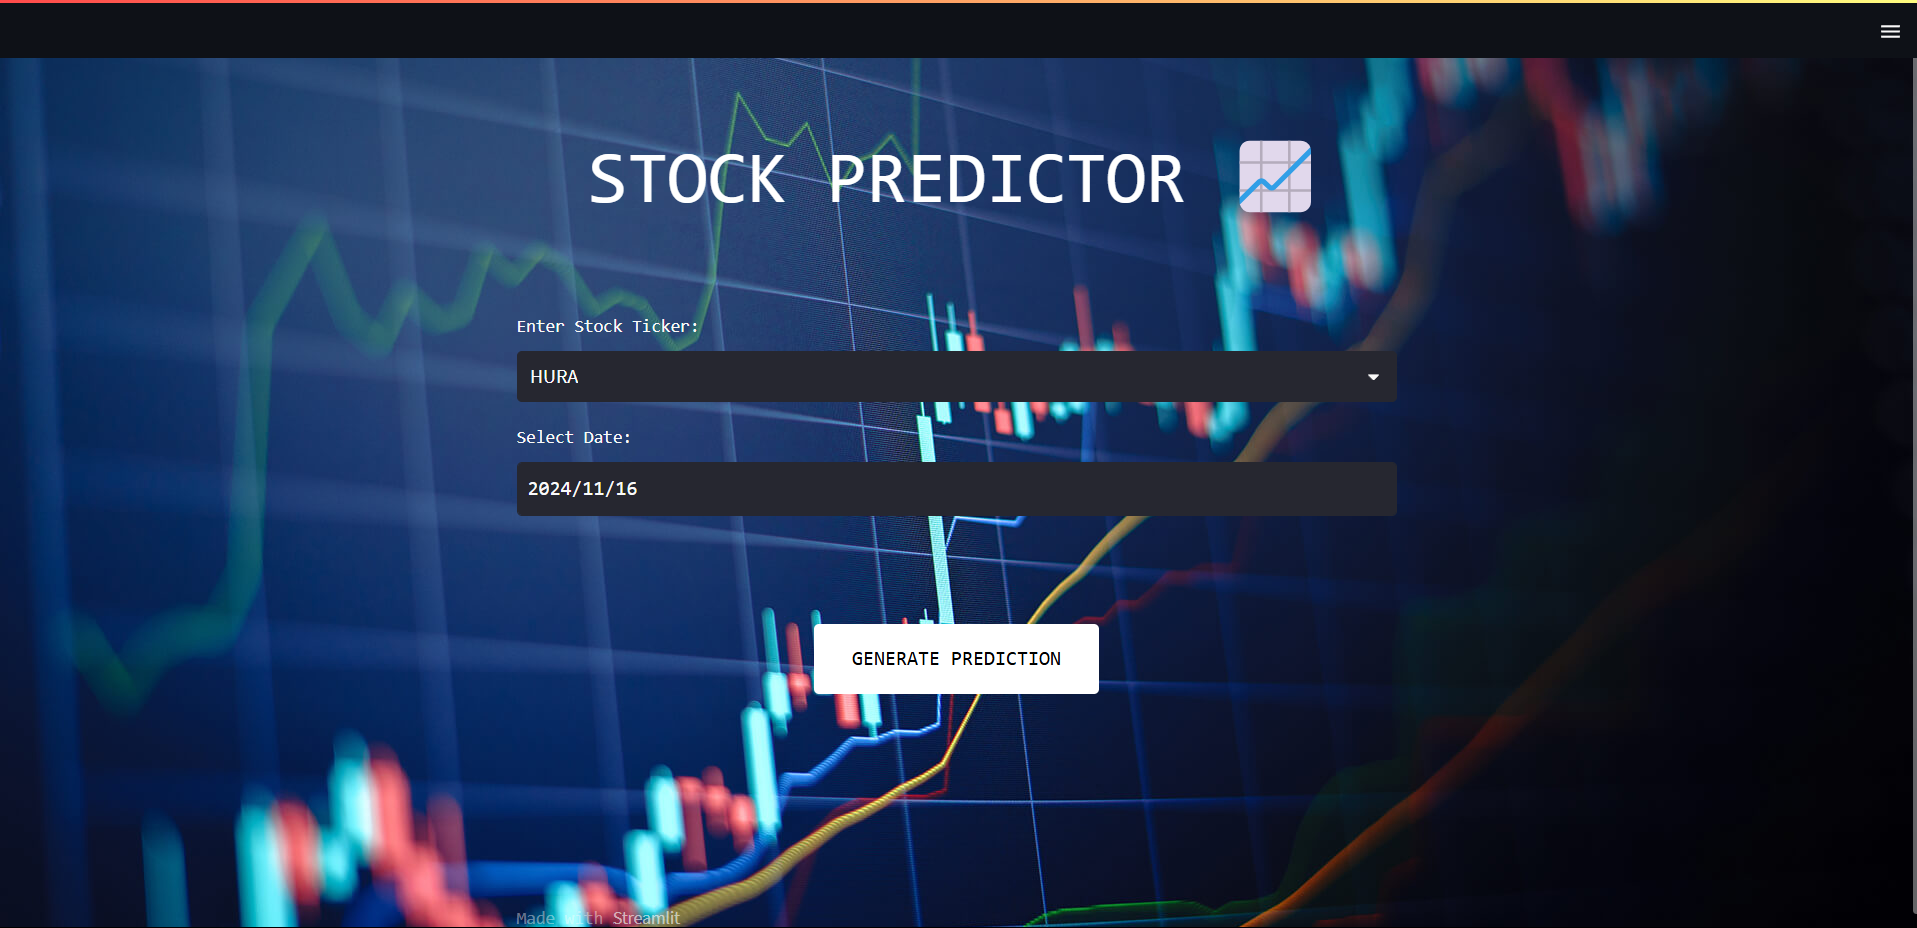
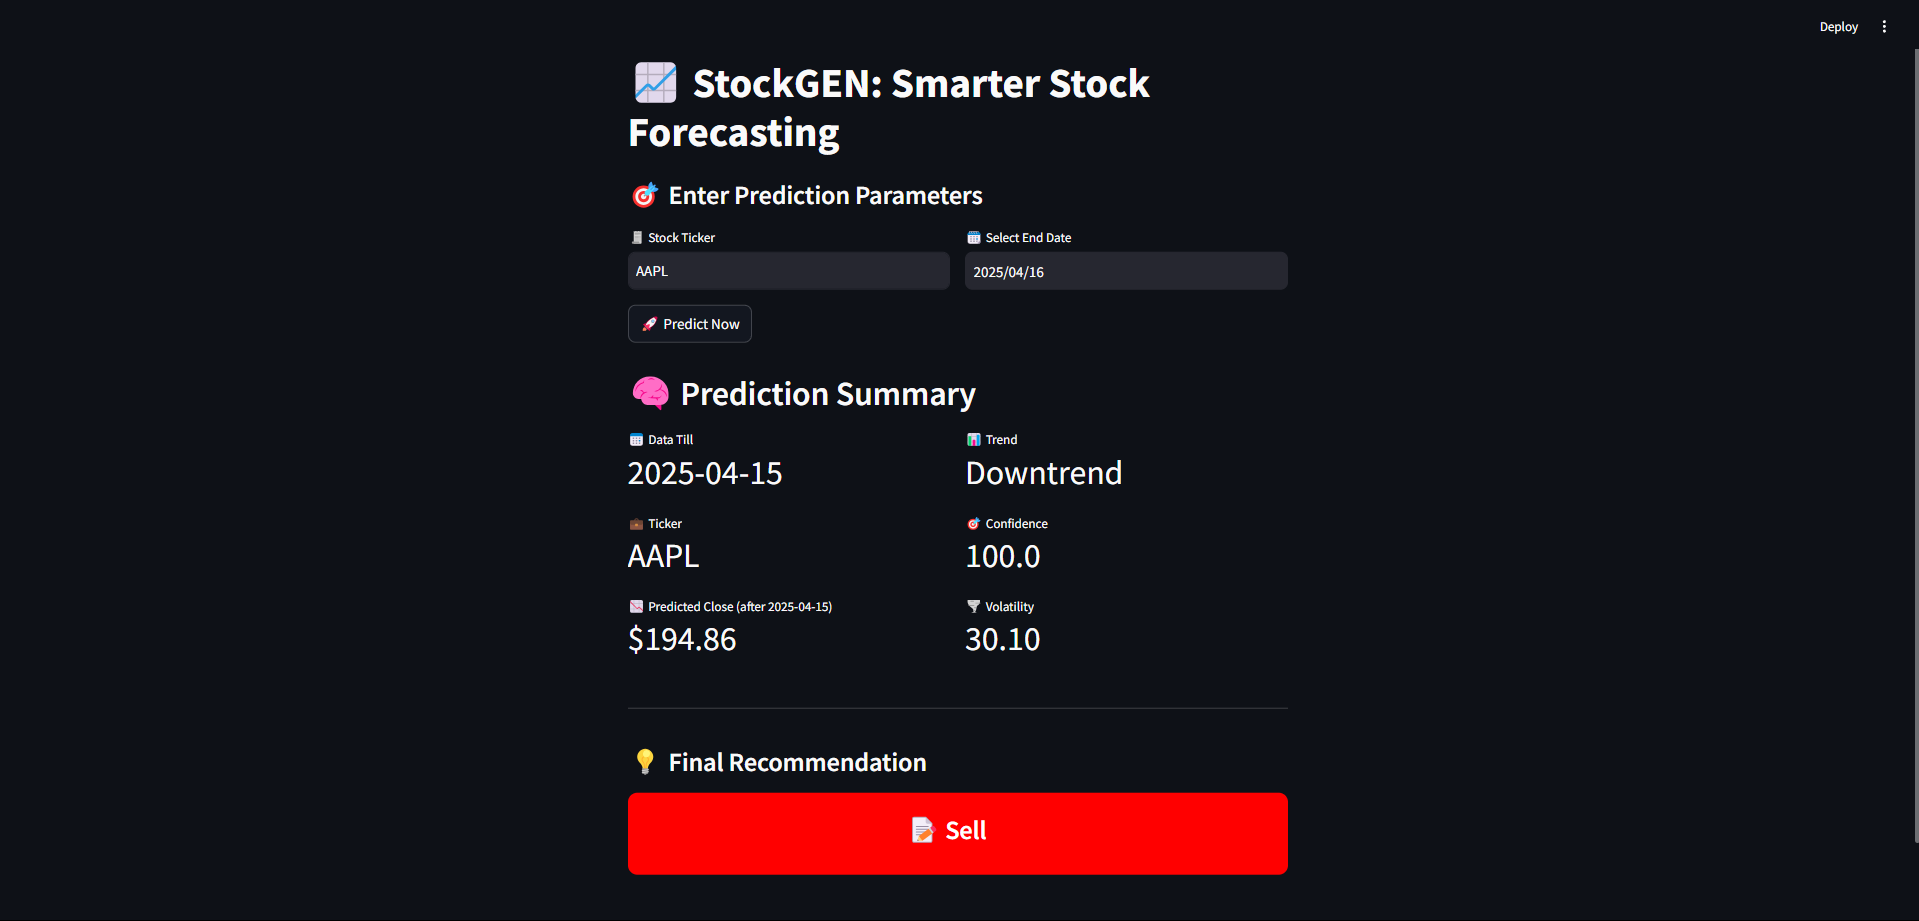
New project- StockGEN

diff --git a/data/index.ts b/data/index.ts
@@ -72,11 +72,11 @@ export const gridItems = [
 export const projects = [
   {
     id: 1,
-    title: "Stock Analyser + Predictor",
-    des: "Developed a stock prediction model using news data from Alpaca API and historical data from Yfinance. Achieved 89.06% accuracy with a Feedforward Neural Network, deployed in a Streamlit app for real-time stock price forecasts. Project results are documented in an upcoming research paper.",
+    title: "StockGEN",
+    des: "Developed a transformer based stock price/trend prediction model and Confidence + Recommendation using T5-flan.",
     img: "/stock.png",
-    iconLists: ["https://upload.wikimedia.org/wikipedia/commons/2/20/Tensorflow-svgrepo-com.svg", "https://upload.wikimedia.org/wikipedia/commons/2/22/Pandas_mark.svg", "https://upload.wikimedia.org/wikipedia/commons/6/67/Numpy-svgrepo-com.svg", "https://s3.dualstack.us-east-2.amazonaws.com/pythondotorg-assets/media/files/python-logo-only.svg", "/stream.svg"],
-    link: "https://github.com/GSL006/Stock-Predictor",
+    iconLists: ["https://upload.wikimedia.org/wikipedia/commons/9/99/Pytorch-svgrepo-com.svg", "/hf-logo.svg", "/flask.svg", "https://s3.dualstack.us-east-2.amazonaws.com/pythondotorg-assets/media/files/python-logo-only.svg", "/stream.svg"],
+    link: "https://github.com/GSL006/Stock-Predictor-v2",
   },
   {
     id: 2,
@@ -107,53 +107,52 @@ export const projects = [
 export const Skills = [
   {
     name: "Python",
-    quote:
-      "Known for its versatility and ease of use, Python is ideal for data analysis, machine learning, web development, automation, and scripting. Its extensive libraries, like NumPy, Pandas, and TensorFlow, enhance its capabilities in various fields.",
+    quote:"",
     img: "https://s3.dualstack.us-east-2.amazonaws.com/pythondotorg-assets/media/files/python-logo-only.svg",
   },
   {
     name: "Java",
-    quote: "A robust, object-oriented language used extensively in enterprise environments, Android app development, and backend services. Java's strong memory management, portability, and scalability make it suitable for large-scale applications.",
+    quote:"",
     img: "/java-icon.svg"
   },
   {
     name: "C/C++",
-    quote: "Provides low-level access to memory and system resources, which is critical for performance-intensive applications such as operating systems, game development, and high-frequency trading systems. C++ builds on C with object-oriented features and enhanced abstraction.",
+    quote:"",
     img: "https://upload.wikimedia.org/wikipedia/commons/1/18/ISO_C%2B%2B_Logo.svg"
   },
   {
     name: "SQL",
-    quote: "Essential for database management, SQL enables users to efficiently query, update, and manage relational databases. It supports complex queries, transactions, and data manipulation, making it vital for backend development and data analytics.",
+    quote:"",
     img: "/sql.svg"
   },
   {
     name: "JS",
-    quote: "A core technology for web development, JavaScript enables interactive elements on web pages, such as animations, dynamic content updates, and client-side validation. It's essential for modern web development frameworks and libraries.",
+    quote:"",
     img: "/js.svg"
   },
   {
     name: "R",
-    quote: " Specialized for statistical analysis and graphical representation, R is commonly used in data science, research, and academia. It offers a wide range of statistical and data manipulation packages.",
+    quote:"",
     img: "https://upload.wikimedia.org/wikipedia/commons/1/1b/R_logo.svg",
   },
   {
     name: "Go",
-    quote: "Known for its simplicity and efficiency, Go is used in building scalable web servers, distributed systems, and cloud services. Its strong concurrency support and performance make it a popular choice for backend development.",
+    quote:"",
     img: "https://upload.wikimedia.org/wikipedia/commons/0/05/Go_Logo_Blue.svg",
   },
   {
     name: "scikit-learn",
-    quote: "A Python library providing simple and efficient tools for data mining and machine learning. It includes algorithms for classification, regression, clustering, and dimensionality reduction, making it a versatile choice for machine learning tasks.",
+    quote:"",
     img: "https://upload.wikimedia.org/wikipedia/commons/0/05/Scikit_learn_logo_small.svg",
   },
   {
     name: "TensorFlow/Keras",
-    quote: "TensorFlow is a comprehensive framework for building machine learning models, and Keras is its high-level API for easy model development. They are widely used for training and deploying deep learning models.",
+    quote:"",
     img: "https://upload.wikimedia.org/wikipedia/commons/2/20/Tensorflow-svgrepo-com.svg"
   },
   {
     name: "MERN",
-    quote: "A popular stack for building full-stack web applications using JavaScript. MongoDB is a NoSQL database, Express.js is a backend framework, React is a frontend library, and Node.js is a runtime environment for server-side code.",
+    quote:"",
     img: "https://upload.wikimedia.org/wikipedia/commons/9/94/MERN-logo.png"
   },
   {
@@ -186,7 +185,31 @@ export const Skills = [
     quote: "",
     img: "/firebase.svg"
   },
-
+  {
+    name: "Flask",
+    quote: "",
+    img: "/flask.svg"
+  },
+  {
+    name: "Stripe",
+    quote: "",
+    img: "/stripe.svg"
+  },
+  {
+    name: "Docker",
+    quote: "",
+    img: "/dock.svg"
+  },
+  {
+    name: "Stream",
+    quote: "",
+    img: "/stream.svg"
+  },
+  {
+    name: "Hugging Face",
+    quote: "",
+    img: "/hf-logo.svg"
+  }
 ];
 
 export const companies = [
